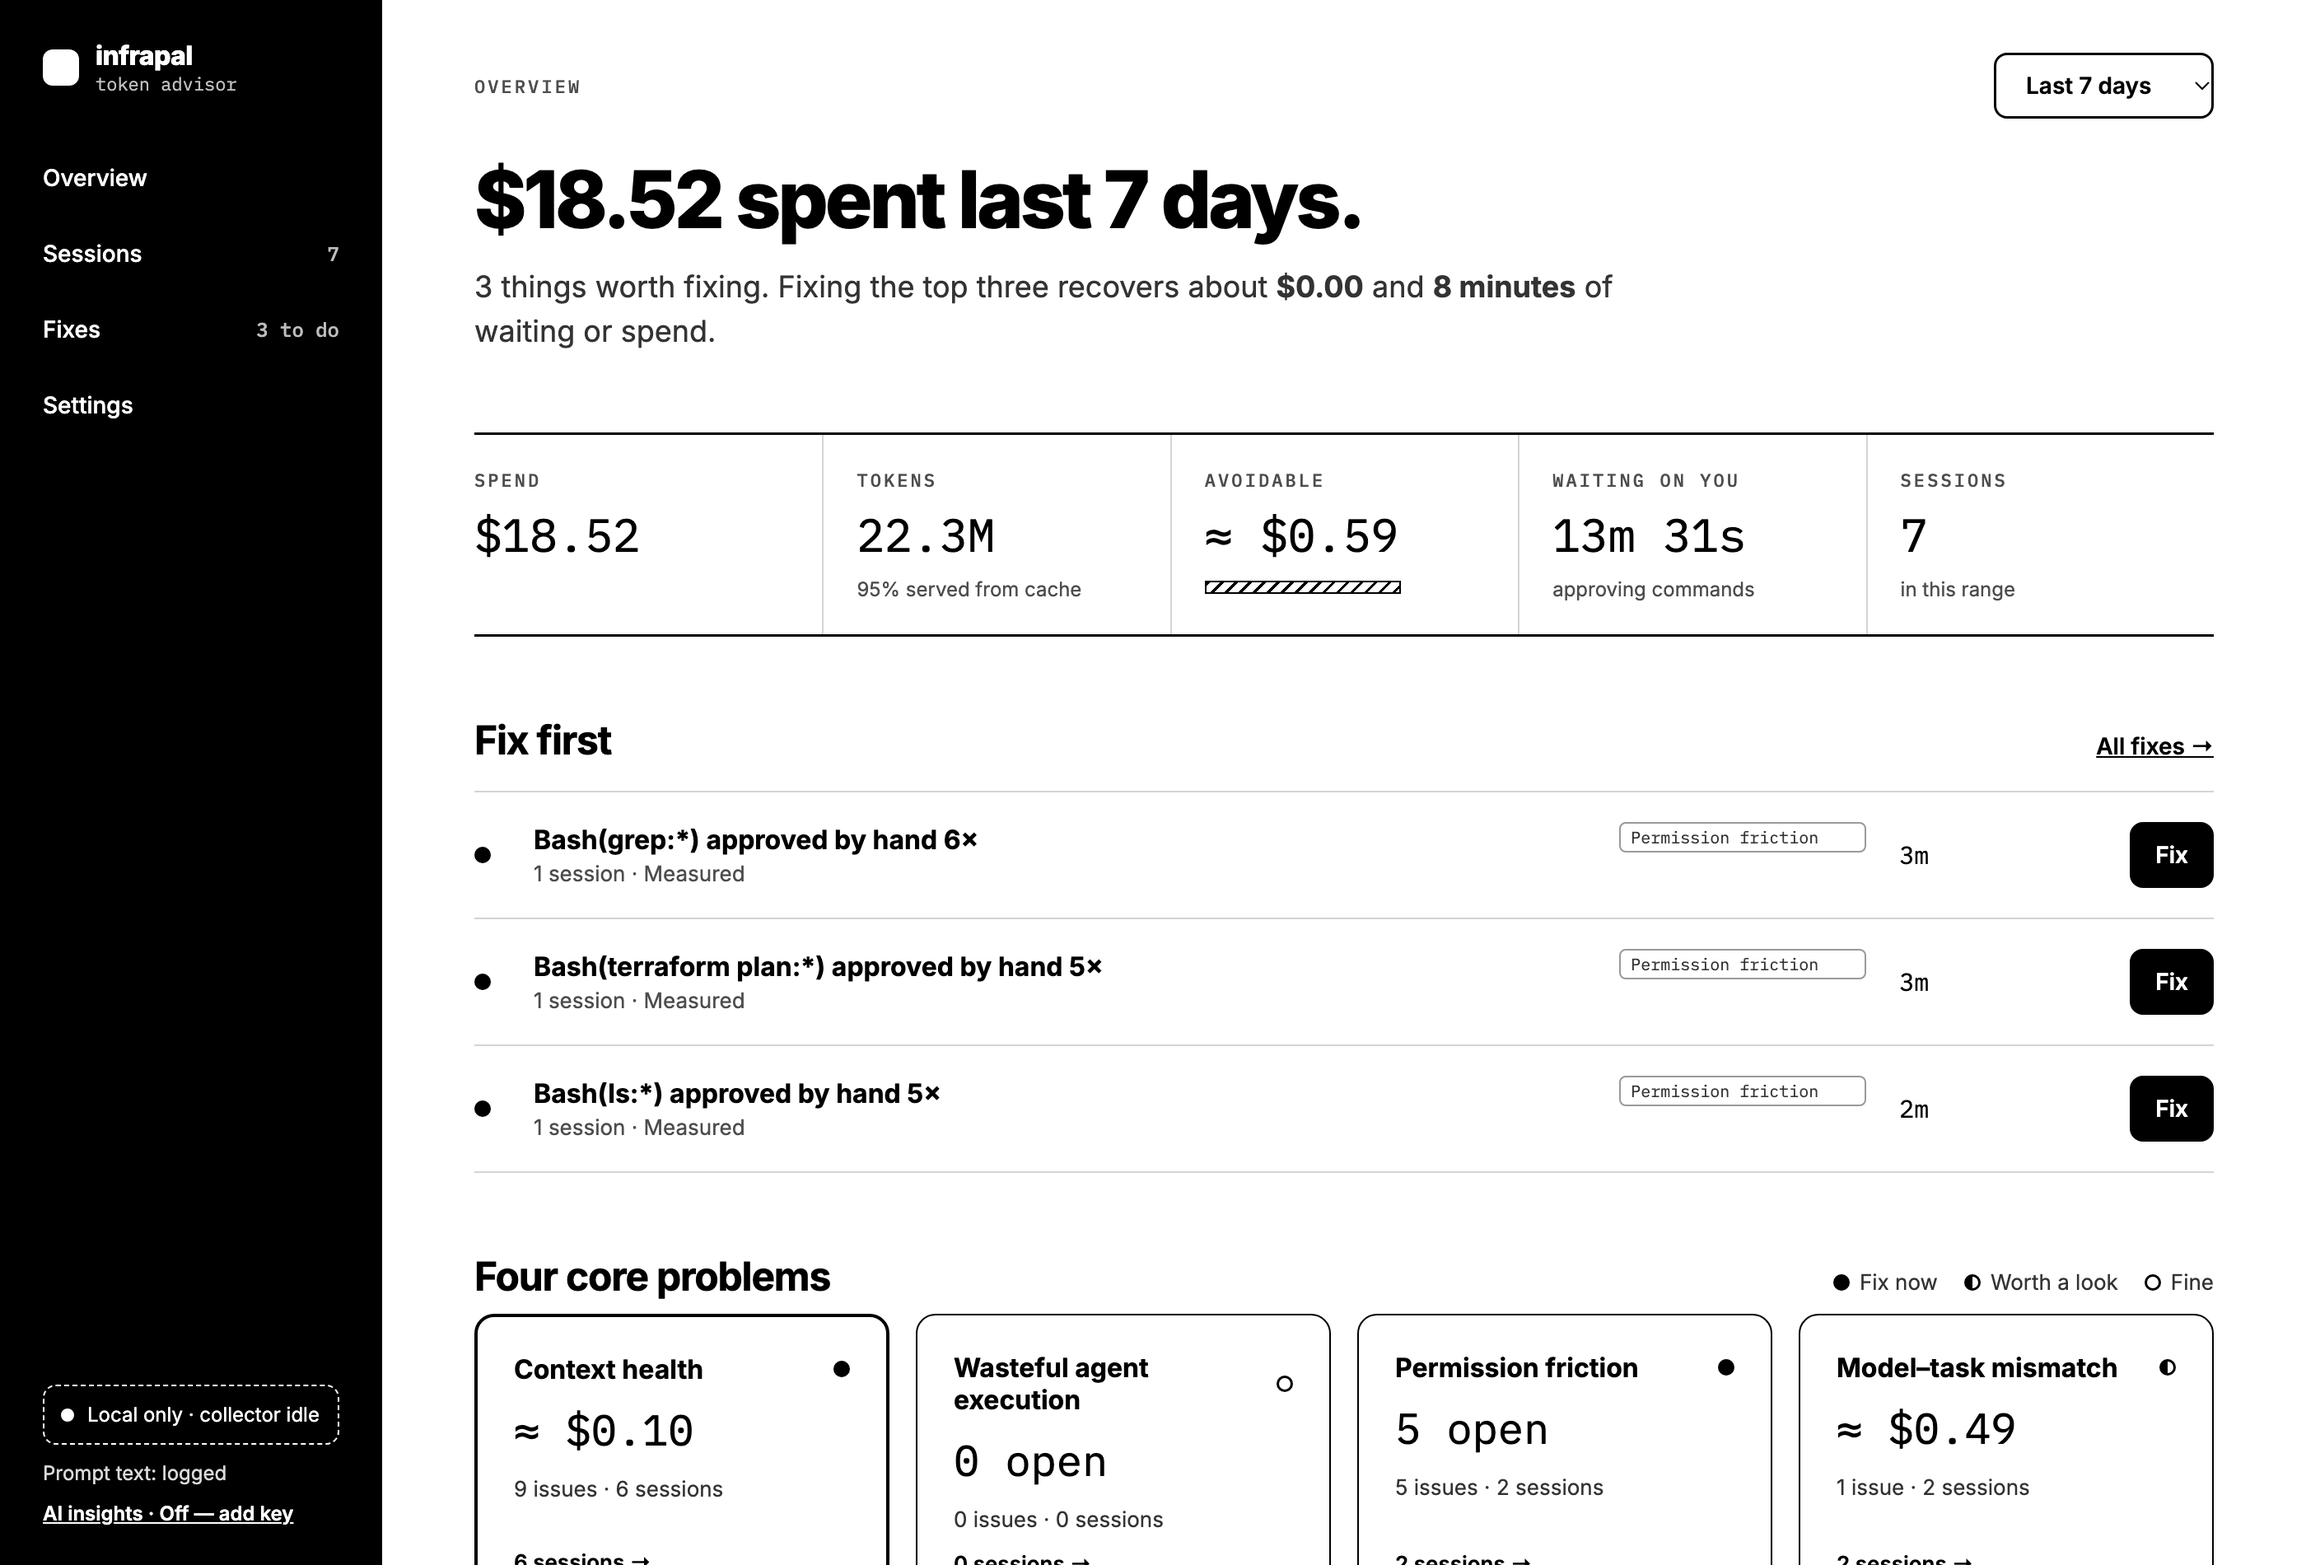
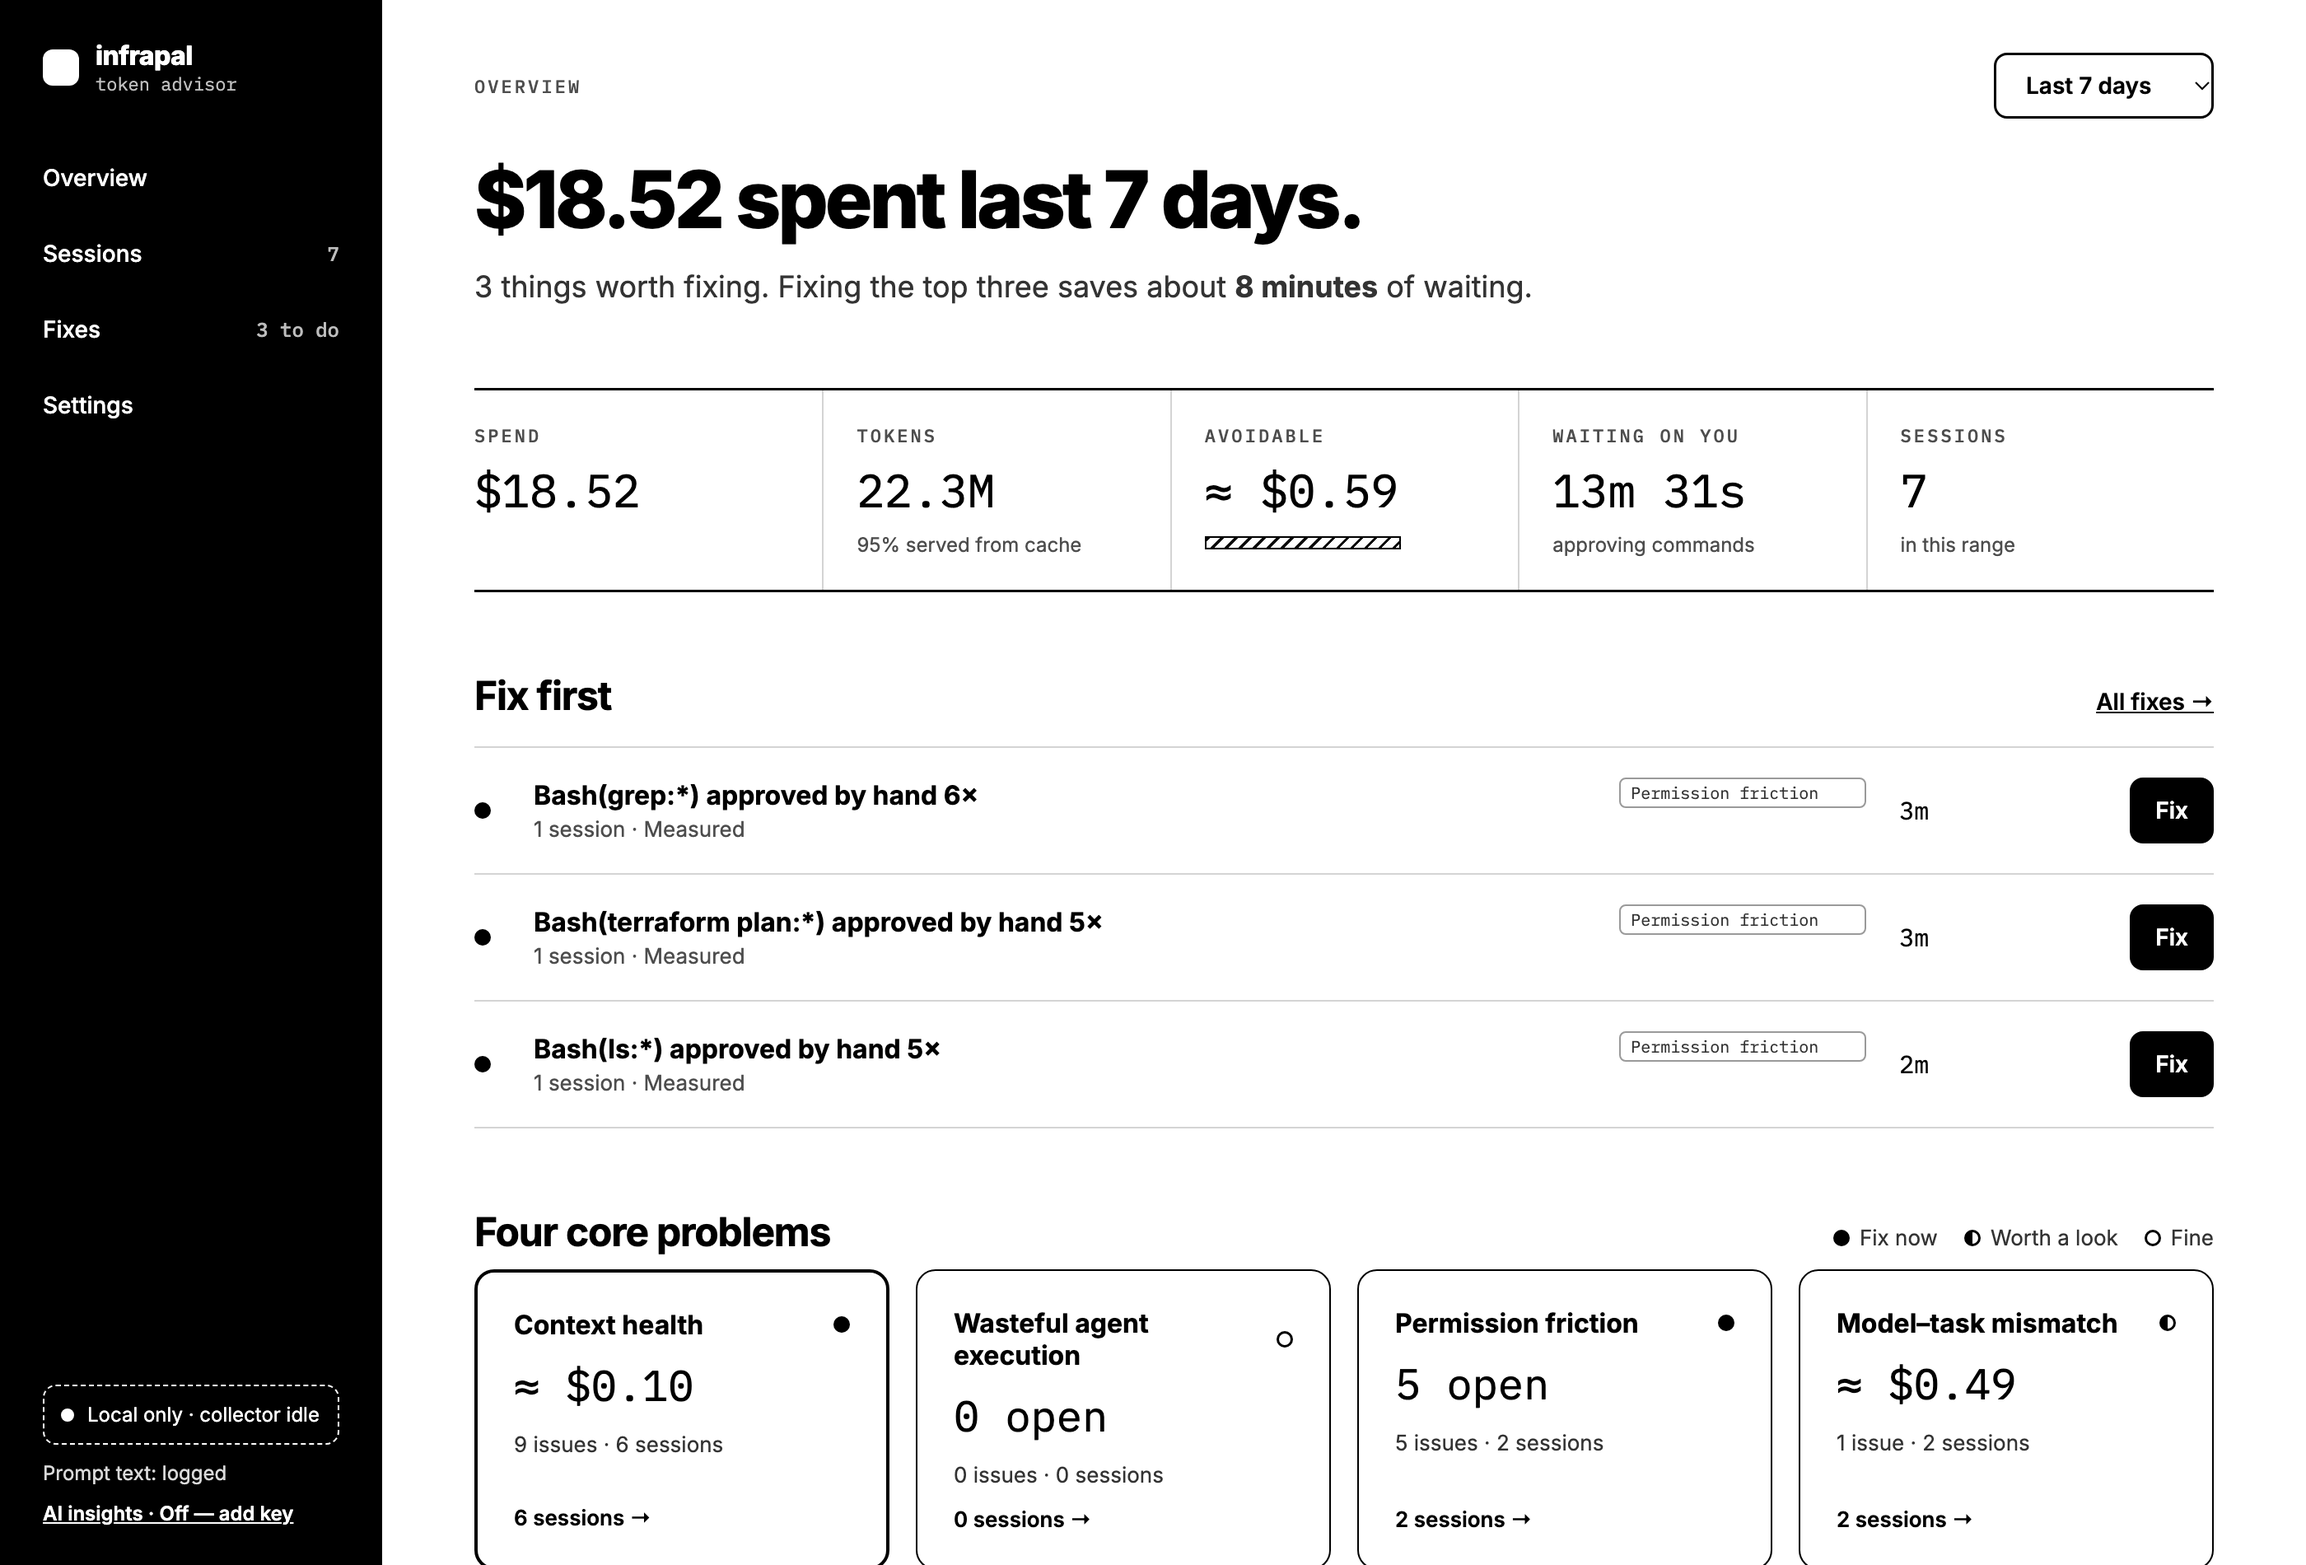
Fixes charts and the Overview summary

diff --git a/web/src/ta/Overview.tsx b/web/src/ta/Overview.tsx
@@ -24,6 +24,8 @@ export default function Overview() {
   const dayMax = useMemo(() => Math.max(1, ...(data?.by_day.map((d) => d.cost_usd) ?? [1])), [data]);
   const projMax = useMemo(() => Math.max(1, ...(data?.by_project.map((p) => p.cost_usd) ?? [1])), [data]);
   const problemCount = data?.fix_first.length ?? 0;
+  const recoveredUsd = (data?.recovered.usd ?? 0) >= 0.005; // would show as $0.00 otherwise
+  const recoveredMinutes = Math.round(data?.recovered.minutes ?? 0);
 
   return (
     <Shell fixesToDo={data?.fix_first.length} sessionCount={data?.sessions_count}>
@@ -48,8 +50,11 @@ export default function Overview() {
             <h1>{money(data.spend_usd)} spent {PERIODS.find((p) => p.value === range)?.label.toLowerCase() ?? "in range"}.</h1>
             <p className="lead">
               {problemCount} {problemCount === 1 ? "thing" : "things"} worth fixing
-              {data.fix_first.length > 0 && <>. Fixing the top three recovers about <strong>{money(data.recovered.usd)}</strong>
-                {data.recovered.minutes > 0 && <> and <strong>{Math.round(data.recovered.minutes)} minutes</strong></>} of waiting or spend.</>}
+              {(recoveredUsd || recoveredMinutes > 0) ? ". Fixing the top three " : "."}
+              {recoveredUsd && <>recovers about <strong>{money(data.recovered.usd)}</strong></>}
+              {recoveredUsd && recoveredMinutes > 0 && " and "}
+              {recoveredMinutes > 0 && <>saves about <strong>{recoveredMinutes} {recoveredMinutes === 1 ? "minute" : "minutes"}</strong> of waiting</>}
+              {(recoveredUsd || recoveredMinutes > 0) && "."}
             </p>
           </section>
 

diff --git a/web/src/ta/Fixes.tsx b/web/src/ta/Fixes.tsx
@@ -72,6 +72,16 @@ export default function Fixes() {
                   <span className="num">{last ? `${Math.round(last.healthy_pct * 100)}%` : "—"}</span>
                   <span className="num-label">healthy sessions</span>
                 </div>
+                {weeks.length > 0 && (
+                  <div className="rows-bars" role="img" aria-label="Healthy sessions by week">
+                    {weeks.slice(-4).map((w) => (
+                      <div className="r-line" key={w.week}>
+                        <span className="mono">{dayShort(Date.parse(w.week))}</span>
+                        <div className="mix"><div className="ok-part" style={{ width: `${Math.round(w.healthy_pct * 100)}%` }} /></div>
+                      </div>
+                    ))}
+                  </div>
+                )}
               </div>
               <div className="stat-grid">
                 <div className="stat">
@@ -111,6 +121,11 @@ export default function Fixes() {
                     <div className="hatch-part hatch" style={{ height: "100%" }} />
                   </div>
                 ))}
+                {weeks.length > 1 && (
+                  <svg className="bars-line" viewBox="0 0 100 100" preserveAspectRatio="none" aria-hidden="true">
+                    <polyline points={weeks.map((w, i) => `${((i + 0.5) / weeks.length) * 100},${100 - w.healthy_pct * 100}`).join(" ")} />
+                  </svg>
+                )}
               </div>
               <div className="axis-x">
                 {weeks.map((w) => (

diff --git a/web/src/ta/styles.css b/web/src/ta/styles.css
@@ -320,6 +320,9 @@ button, select, input { font: inherit; }
   border-bottom: 1.5px solid #000;
 }
 .bars .day-col { flex: 1; display: flex; flex-direction: column; }
+.bars { position: relative; }
+.bars-line { position: absolute; inset: 0; width: 100%; height: 100%; pointer-events: none; overflow: visible; }
+.bars-line polyline { fill: none; stroke: #000; stroke-width: 2.5; vector-effect: non-scaling-stroke; }
 .bars .day-col .solid { flex: 1; background: #000; }
 .bars .day-col .hatch-part { border: 1px solid #000; border-bottom: 0; }
 .bars .day-col .none { flex: 1; }
